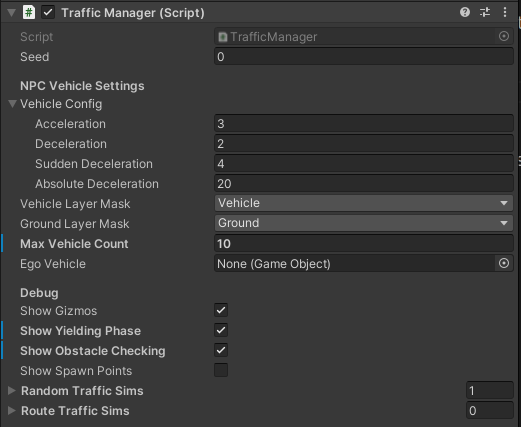
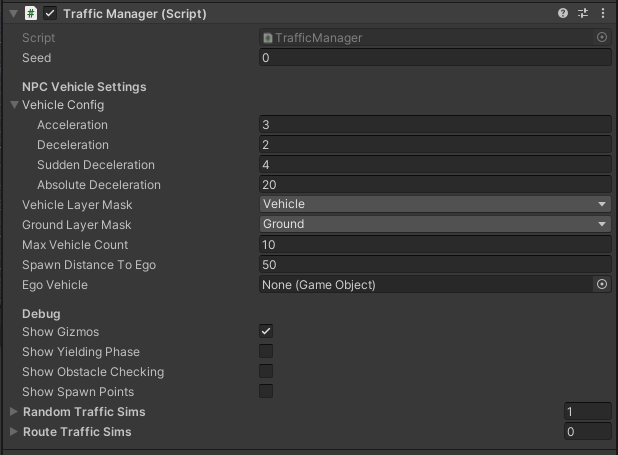
feat(docs): add information about minimal NPC spawn distance to EGO

diff --git a/docs/Components/Traffic/TrafficComponents/index.md b/docs/Components/Traffic/TrafficComponents/index.md
@@ -121,6 +121,8 @@ The `Vehicle Layer Mask` and `Ground Layer Mask` are used to make sure all vehic
 `Max Vehicle Count` specifies how many `NPCVehicles` can be present on the scene at once.
 When the number of `NPCVehicles` on the scene is equal to this value the [`RandomTrafficSimulator`](#randomtrafficsimulator) stops spawning new vehicles until some existing vehicles drive away and disappear.
 
+`Spawn Distance to EGO` defines the minimal distance between the EGO and the NPC to spawn
+
 The `EgoVehicle` field provides the information about Ego vehicle used for correct behavior of`NPCVehicles`when interacting with Ego.
 
 `Show Gizmos` checkbox specifies whether the [Gizmos](#gizmos) visualization should be displayed when running the simulation.
@@ -173,6 +175,7 @@ Set to `0` to disable this restriction.
 | ----------------------- | ----------------------------------------------------------------------------------------------------------- |
 | **General Settings**    |                                                                                                             |
 | Seed                    | Seed value for random generator                                                                             |
+| Spawn Distance to EGO   | Minimal distance between the EGO and the NPC to spawn                                                       |
 | Ego Vehicle             | Transform of ego vehicle                                                                                    |
 | Vehicle Layer Mask      | LayerMask that masks only vehicle(NPC and ego) colliders                                                    |
 | Ground Layer Mask       | LayerMask that masks only ground colliders of the map                                                       |
